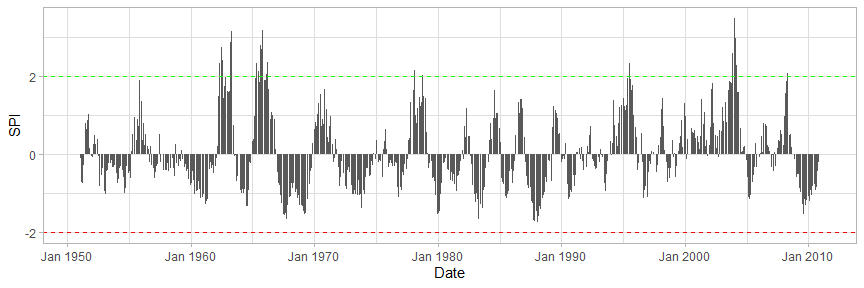
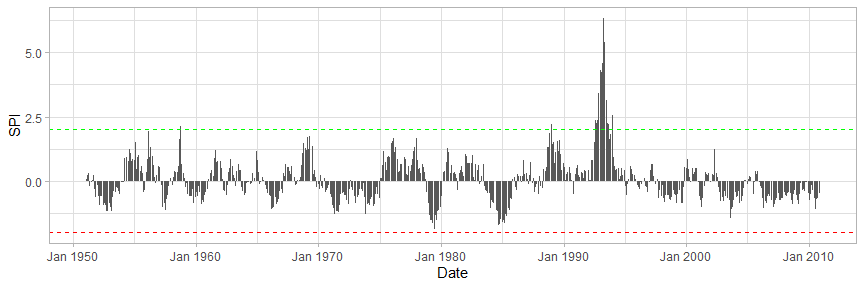
updating README.md withe the classification and visualization of drought events

diff --git a/README.md b/README.md
@@ -41,8 +41,9 @@ rain = dummyrainfall(startYear = 1950, endYear = 2010)
 
 # Compute the non-stationary standardized precipitation index (NSPI) for scale 12 using GAMLSS
 nonstatdrought = computenspi(x = rain, stationaryspi = FALSE, spiScale = 12, dist = 'gamma')
-#> GAMLSS-RS iteration 1: Global Deviance = 3443.237 
-#> GAMLSS-RS iteration 2: Global Deviance = 3443.236
+#> GAMLSS-RS iteration 1: Global Deviance = 3337.271 
+#> GAMLSS-RS iteration 2: Global Deviance = 3337.209 
+#> GAMLSS-RS iteration 3: Global Deviance = 3337.209
 
 # Plot NSPI
 plot(nonstatdrought)
@@ -53,10 +54,11 @@ plot(nonstatdrought)
 ``` r
 # Compute the stationary standardized precipitation index (NSPI) for scale 12 using GAMLSS and the weibull distribution
 statdrought = computenspi(x = rain, stationaryspi = TRUE, spiScale = 12, dist = 'weibull')
-#> GAMLSS-RS iteration 1: Global Deviance = 3532.575 
-#> GAMLSS-RS iteration 2: Global Deviance = 3525.934 
-#> GAMLSS-RS iteration 3: Global Deviance = 3525.881 
-#> GAMLSS-RS iteration 4: Global Deviance = 3525.881
+#> GAMLSS-RS iteration 1: Global Deviance = 3527.247 
+#> GAMLSS-RS iteration 2: Global Deviance = 3497.37 
+#> GAMLSS-RS iteration 3: Global Deviance = 3497.226 
+#> GAMLSS-RS iteration 4: Global Deviance = 3497.225 
+#> GAMLSS-RS iteration 5: Global Deviance = 3497.225
 
 # Plot SPI 
 plot(statdrought)
@@ -65,6 +67,18 @@ plot(statdrought)
 <img src="README_figs/README-unnamed-chunk-4-1.png" style="display: block; margin: auto;" />
 
 ### Compute the Drought Events
+
+`computeclass` returns the classification of drought events over time:
+
+``` r
+# Compute drought class
+indexClass = computeclass(nonstatdrought)
+
+# Plot drought events over time
+plot(indexClass)
+```
+
+<img src="README_figs/README-unnamed-chunk-5-1.png" style="display: block; margin: auto;" />
 
 ### Model-Based Comparison of Drought Indices
 
@@ -78,15 +92,15 @@ model residuals of the fitted model-based indices:
 plot(nonstatdrought[['model']])
 ```
 
-<img src="README_figs/README-unnamed-chunk-5-1.png" style="display: block; margin: auto;" />
+<img src="README_figs/README-unnamed-chunk-6-1.png" style="display: block; margin: auto;" />
 
     #> ******************************************************************
     #>        Summary of the Quantile Residuals
-    #>                            mean   =  -3.325032e-07 
-    #>                        variance   =  1.001672 
-    #>                coef. of skewness  =  0.04019355 
-    #>                coef. of kurtosis  =  2.679767 
-    #> Filliben correlation coefficient  =  0.9980139 
+    #>                            mean   =  -8.966769e-05 
+    #>                        variance   =  1.001663 
+    #>                coef. of skewness  =  0.1068735 
+    #>                coef. of kurtosis  =  3.919217 
+    #> Filliben correlation coefficient  =  0.9948914 
     #> ******************************************************************
 
 ``` r
@@ -94,15 +108,15 @@ plot(nonstatdrought[['model']])
 plot(statdrought[['model']])
 ```
 
-<img src="README_figs/README-unnamed-chunk-6-1.png" style="display: block; margin: auto;" />
+<img src="README_figs/README-unnamed-chunk-7-1.png" style="display: block; margin: auto;" />
 
     #> ******************************************************************
     #>        Summary of the Quantile Residuals
-    #>                            mean   =  0.01263389 
-    #>                        variance   =  0.8900333 
-    #>                coef. of skewness  =  0.7951498 
-    #>                coef. of kurtosis  =  3.485156 
-    #> Filliben correlation coefficient  =  0.9791193 
+    #>                            mean   =  0.03636941 
+    #>                        variance   =  0.7929801 
+    #>                coef. of skewness  =  1.858084 
+    #>                coef. of kurtosis  =  11.40916 
+    #> Filliben correlation coefficient  =  0.9423127 
     #> ******************************************************************
 
 As presented in the diagnostic charts, the Normal Q-Q plot of the GAMLSS
@@ -131,8 +145,8 @@ library(gamlss)
 # Compare the two model based implementations using AIC
 GAIC(nonstatdrought[['model']], statdrought[['model']])
 #>                           df      AIC
-#> nonstatdrought[["model"]]  4 3451.236
-#> statdrought[["model"]]     2 3529.881
+#> nonstatdrought[["model"]]  4 3345.209
+#> statdrought[["model"]]     2 3501.225
 ```
 
 <!-- #### Data Split -->
